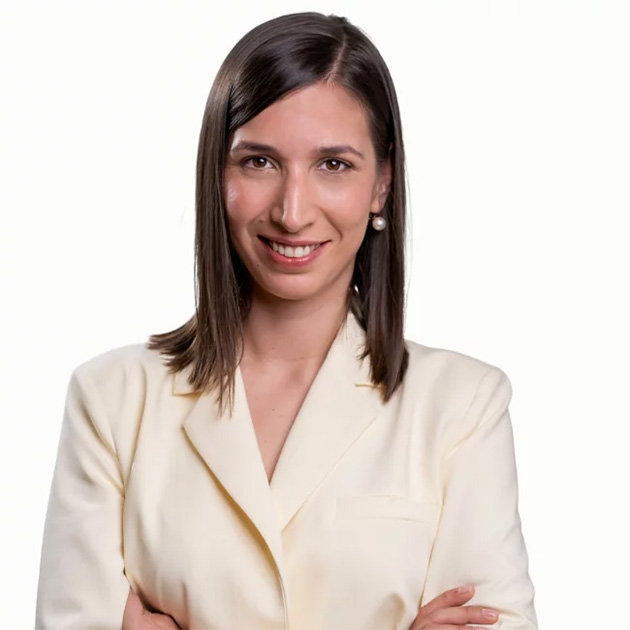
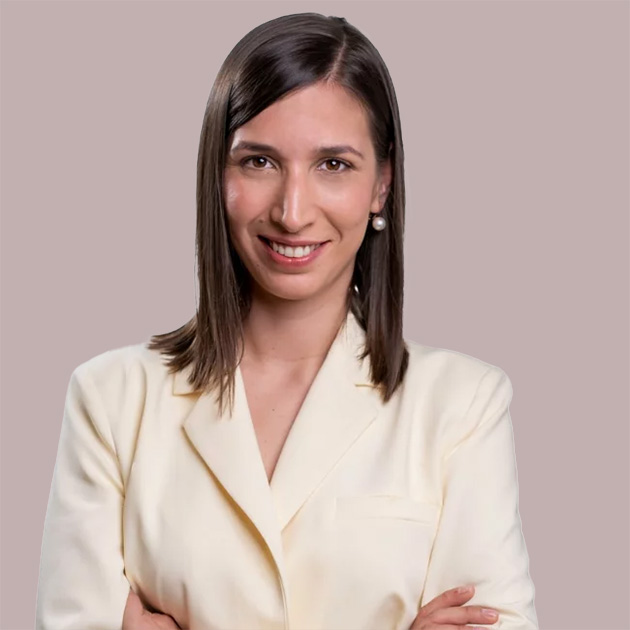
add breadtext 2

diff --git a/app/ui/main/herobanner.tsx b/app/ui/main/herobanner.tsx
@@ -27,7 +27,7 @@ export default function HeroBanner({page = 'home'}) {
 					<h1 className="banner_big_title">						
 						{t('title')}
 					</h1>
-					{ page === 'soon' && ( <p className="banner_subdescription">{t('subtitle2')}</p> )}					
+					<p className="banner_subdescription">{t('subtitle2')}</p>				
 					<p className="banner_description">{t('subtitle')}</p>					
 					{ page === 'home' && (
 					<form action="#" onSubmit={handleSearch}>
@@ -67,7 +67,7 @@ export default function HeroBanner({page = 'home'}) {
 						</div>
 						<div className="child_image image_wrap_2">
 							<div className="layer" data-depth="0.2">
-								<Image src="/assets/images/banner/hero_banner_img_3.jpg" width={518} height={345} alt="Collab – Online Learning Platform"/>
+								<Image src="/assets/images/banner/hero_banner_img_6.jpg" width={518} height={345} alt="Collab – Online Learning Platform"/>
 							</div>
 						</div>
 						<div className="child_image image_wrap_3">

diff --git a/app/ui/main/testimonials.tsx b/app/ui/main/testimonials.tsx
@@ -37,7 +37,7 @@ export default function Testimonials() {
 					<div className="carousel_item">
 						<div className="testimonial_item_2">
 							<div className="testimonial_image ms-0" style={{backgroundImage: "url('/assets/images/shape/shape_img_6.png')"}}>
-								<Image src="/assets/images/testimonial/Varga_Greta_profil.jpg" width={630} height={630} alt="Collab – Online Learning Platform"/>
+								<Image src="/assets/images/testimonial/Varga_Greta_profil2.jpg" width={630} height={630} alt="Collab – Online Learning Platform"/>
 							</div>
 							<div className="testimonial_content">
 								<div className="quote_icon">
